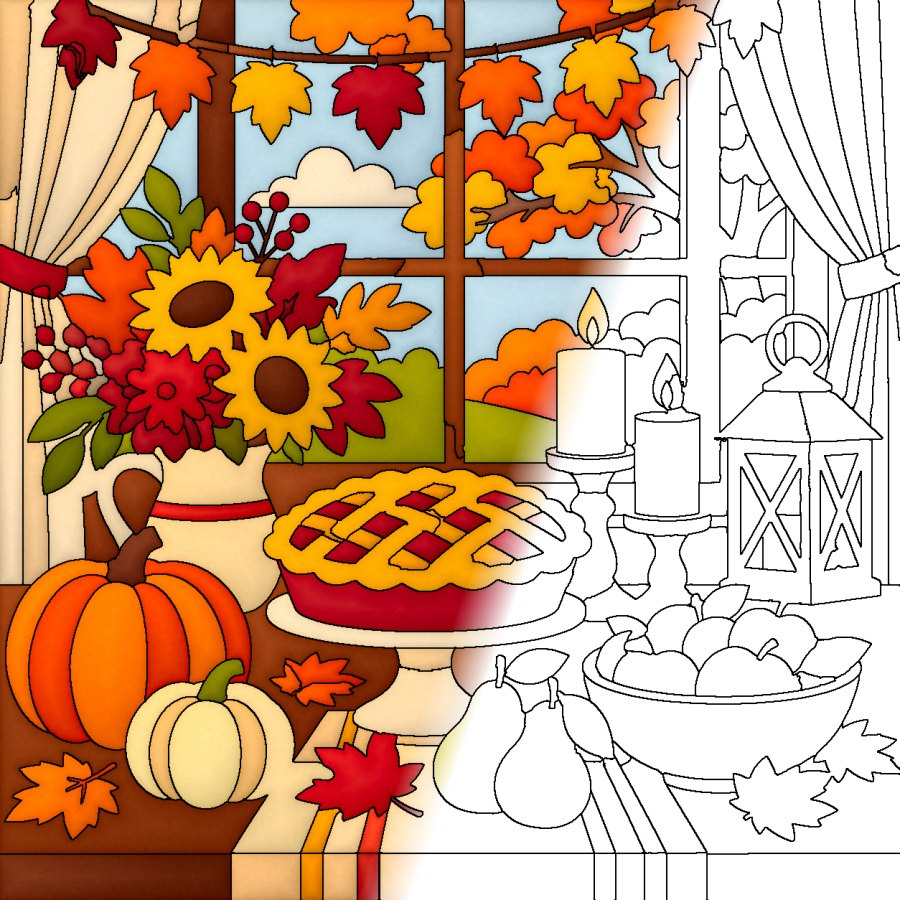
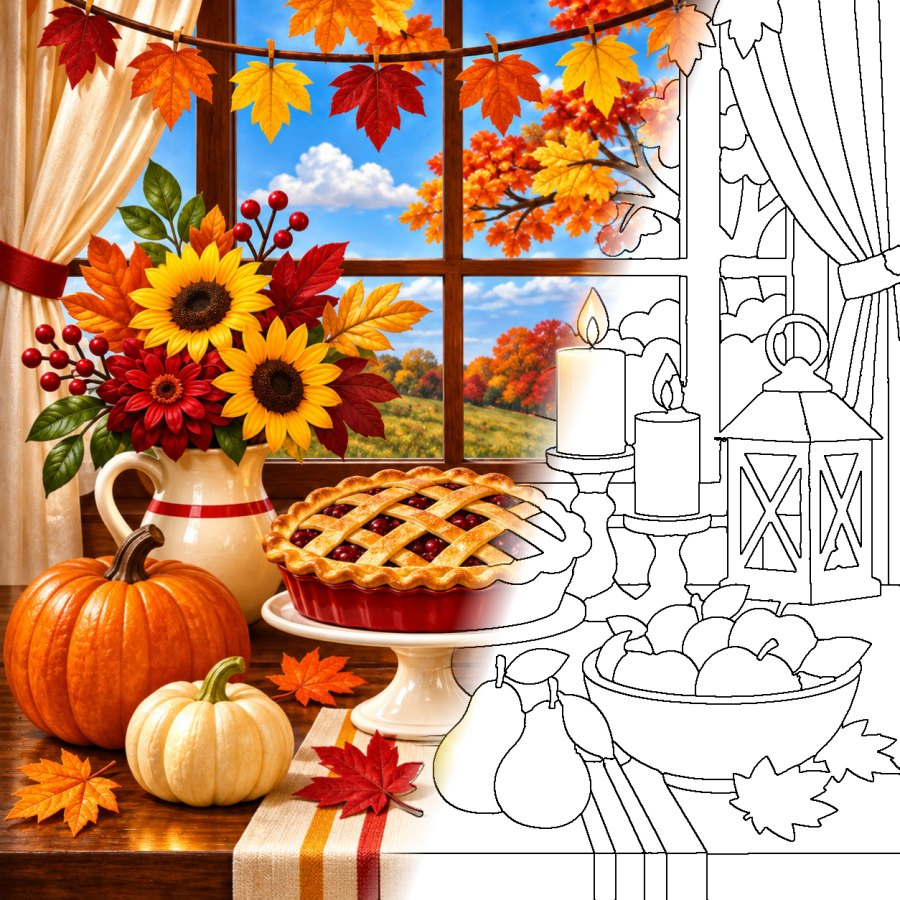
Thanksgiving Window: reveal the rich Kodachrome repaint; add rich_page.py
tools/rich_page.py puts a rich repaint on a shapes-first page without
changing its pieces: it aligns the painting to the flat picture, writes
color.jpg and feature.jpg, and reports how well the painting's edges sit
on the piece outlines.

Thanksgiving Window now reveals the repaint (82% of outlines have a
painted edge within 4px, shift under half a pixel). Pieces unchanged,
so saved progress is kept.

Claude-Session: https://claude.ai/code/session_01X4jKmC36k778ncv5ZPyc4q

diff --git a/tools/rich_page.py b/tools/rich_page.py
@@ -1,0 +1,43 @@
+#!/usr/bin/env python3
+"""Put a rich repaint on a shapes-first page, keeping its pieces.
+
+  python3 tools/rich_page.py <slug> <rich.png> [--style "Kodachrome"]
+
+For a page built by flat_page.py. <rich.png> is the same picture repainted rich and shaded with every shape
+kept in place. It is aligned to the flat picture (a small shift/scale), then becomes what a tap reveals
+(color.jpg) and the finished half of feature.jpg. The pieces and outlines do not change, so saved progress
+is kept. Prints how well the painting's edges sit on the piece outlines; below about 60% the repaint has
+moved things and should be redone. Needs opencv, numpy.
+"""
+import sys, os, json, argparse, glob, shutil
+import numpy as np, cv2
+R = os.path.dirname(os.path.dirname(os.path.abspath(__file__)))
+ap = argparse.ArgumentParser(); ap.add_argument('slug'); ap.add_argument('rich'); ap.add_argument('--style', default='Kodachrome')
+a = ap.parse_args()
+d = os.path.join(R, 'public', 'pages', a.slug); L = cv2.imread(os.path.join(d, 'labels.png'))
+src = sorted(glob.glob(os.path.join(R, 'pages', 'src', a.slug + '-flat.*'))); rich0 = cv2.imread(a.rich)
+if L is None or not src or rich0 is None: sys.exit('need public/pages/<slug>/labels.png, pages/src/<slug>-flat.* and the rich picture')
+lbl = L[:, :, 2].astype(np.int32) + 256 * L[:, :, 1].astype(np.int32); h, w = lbl.shape
+rich = cv2.resize(rich0, (w, h), interpolation=cv2.INTER_AREA); flat = cv2.resize(cv2.imread(src[0]), (w, h), interpolation=cv2.INTER_AREA)
+def edges(im): return cv2.GaussianBlur(cv2.Canny(cv2.GaussianBlur(cv2.cvtColor(im, cv2.COLOR_BGR2GRAY), (0, 0), 2), 40, 120).astype(np.float32), (0, 0), 4)
+al = rich
+try:
+    cc, warp = cv2.findTransformECC(edges(flat), edges(rich), np.eye(2, 3, dtype=np.float32), cv2.MOTION_AFFINE, (cv2.TERM_CRITERIA_EPS | cv2.TERM_CRITERIA_COUNT, 300, 1e-6), None, 5)
+    if abs(warp[0, 0] - 1) < .05 and abs(warp[1, 1] - 1) < .05 and abs(warp[0, 2]) < .04 * w and abs(warp[1, 2]) < .04 * h:
+        al = cv2.warpAffine(rich, warp, (w, h), flags=cv2.INTER_LINEAR + cv2.WARP_INVERSE_MAP, borderMode=cv2.BORDER_REPLICATE)
+    print(f'aligned: shift {warp[0,2]:.1f}, {warp[1,2]:.1f} px')
+except cv2.error:
+    print('could not align; using the painting as it is')
+e = np.zeros((h, w), np.uint8); e[:, 1:] |= (lbl[:, 1:] != lbl[:, :-1]).astype(np.uint8); e[1:, :] |= (lbl[1:, :] != lbl[:-1, :]).astype(np.uint8)
+ce = cv2.Canny(cv2.GaussianBlur(cv2.cvtColor(al, cv2.COLOR_BGR2GRAY), (0, 0), 1.5), 60, 160) > 0
+fit = 100 * ((cv2.dilate(ce.astype(np.uint8), np.ones((9, 9), np.uint8)) > 0) & (e > 0)).sum() / max(1, (e > 0).sum())
+cv2.imwrite(os.path.join(d, 'color.jpg'), al, [cv2.IMWRITE_JPEG_QUALITY, 92])
+shutil.copy(a.rich, os.path.join(R, 'pages', 'src', a.slug + '-color' + os.path.splitext(a.rich)[1]))
+line = cv2.imread(os.path.join(d, 'line.png'), cv2.IMREAD_GRAYSCALE); blank = cv2.cvtColor(cv2.erode(line, np.ones((2, 2), np.uint8)), cv2.COLOR_GRAY2BGR)
+yy, xx = np.mgrid[0:h, 0:w].astype(np.float32); t = np.clip(((xx - 0.60 * w) + (yy - 0.5 * h) * 0.35) / (0.06 * w) + 0.5, 0, 1)[..., None]
+cv2.imwrite(os.path.join(d, 'feature.jpg'), cv2.resize((al * (1 - t) + blank * t).astype(np.uint8), (900, round(900 * h / w)), interpolation=cv2.INTER_AREA), [cv2.IMWRITE_JPEG_QUALITY, 86])
+pj = os.path.join(R, 'public', 'pages.json'); P = json.load(open(pj, encoding='utf-8'))
+for x in P:
+    if x['slug'] == a.slug: x['style'] = a.style
+json.dump(P, open(pj, 'w', encoding='utf-8'), ensure_ascii=False, indent=1)
+print(f'{a.slug}: rich painting installed; {fit:.0f}% of piece outlines have a painted edge within 4 px' + ('' if fit >= 60 else '  <-- LOW: the repaint moved things'))

diff --git a/README.md b/README.md
@@ -19,6 +19,8 @@ the same picture repainted rich and shaded (shapes kept in place); a tap then re
     python3 tools/flat_page.py <slug> flat.png [rich.jpg] --title "Title" --theme landscapes --style "Kodachrome"
 
 That one command writes the whole page (pieces, vector outlines, thumbnail, feature image, pages.json entry).
+To add or replace the rich picture later without changing the pieces: `python3 tools/rich_page.py <slug> rich.png`
+(it aligns the repaint and reports how well it fits the outlines).
 With no rich picture, it runs `tools/shade_page.py`, which paints light, shadow, a soft rim and deeper colour into
 every flat piece, so a tap reveals shaded colour instead of a flat fill (`--depth` and `--rich` tune it).
 
